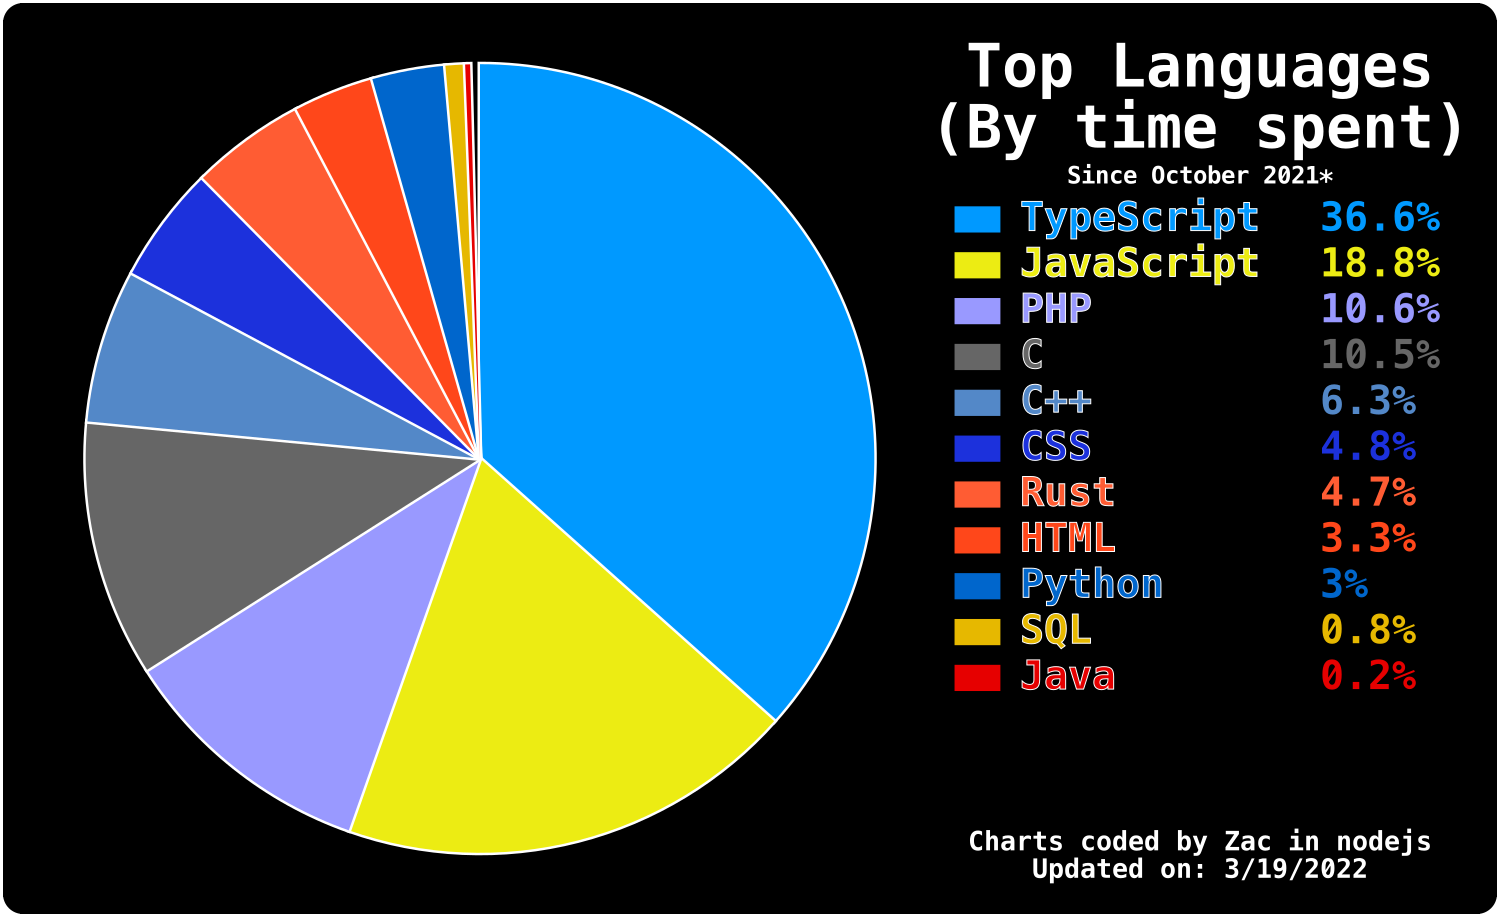
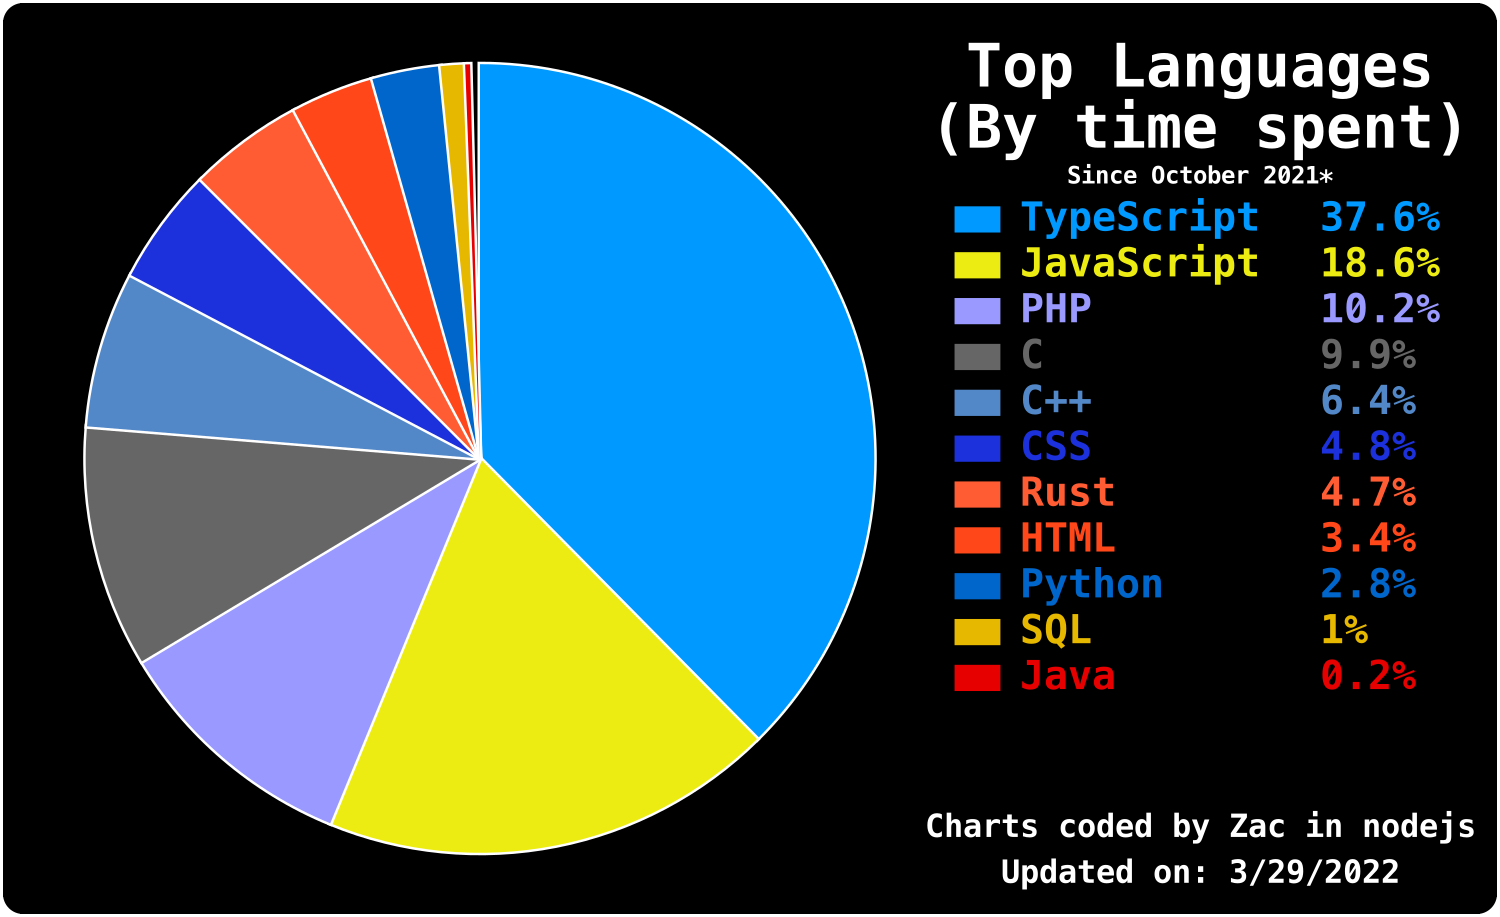
Restyling

diff --git a/src/piGraph.ts b/src/piGraph.ts
@@ -72,22 +72,16 @@ const createLegend = async (ctx: any, languages: any[], start: number, width:num
 		ctx.fillStyle=language.colour;
 		ctx.fillText(language.name, start+2*width/10, (i+4.2)*height/20);
 		
-		ctx.fillStyle = "white";
-		ctx.shadowColor="white";
-		ctx.shadowBlur=0;
-		ctx.lineWidth=1;
-		ctx.strokeText(language.name, start+2*width/10, (i+4.2)*height/20);
-		
 		ctx.shadowBlur=0;
 
 		ctx.fillStyle = language.colour;
 		ctx.fillText(language.percent.toString() + "%", start+7*width/10, (i+4.2)*height/20);
 	}
-	ctx.font = 'bold 20pt Menlo';
+	ctx.font = 'bold 24pt Menlo';
 	ctx.fillStyle = "white";
 	ctx.textAlign = 'center';
 	let date = new Date().toLocaleDateString().toString();
-	ctx.fillText("Charts coded by Zac in nodejs", start+width/2, 18*height/20);
+	ctx.fillText("Charts coded by Zac in nodejs", start+width/2, 17.6*height/20);
 	ctx.fillText("Updated on: "+date, start+width/2, 18.6*height/20);
 }
 
